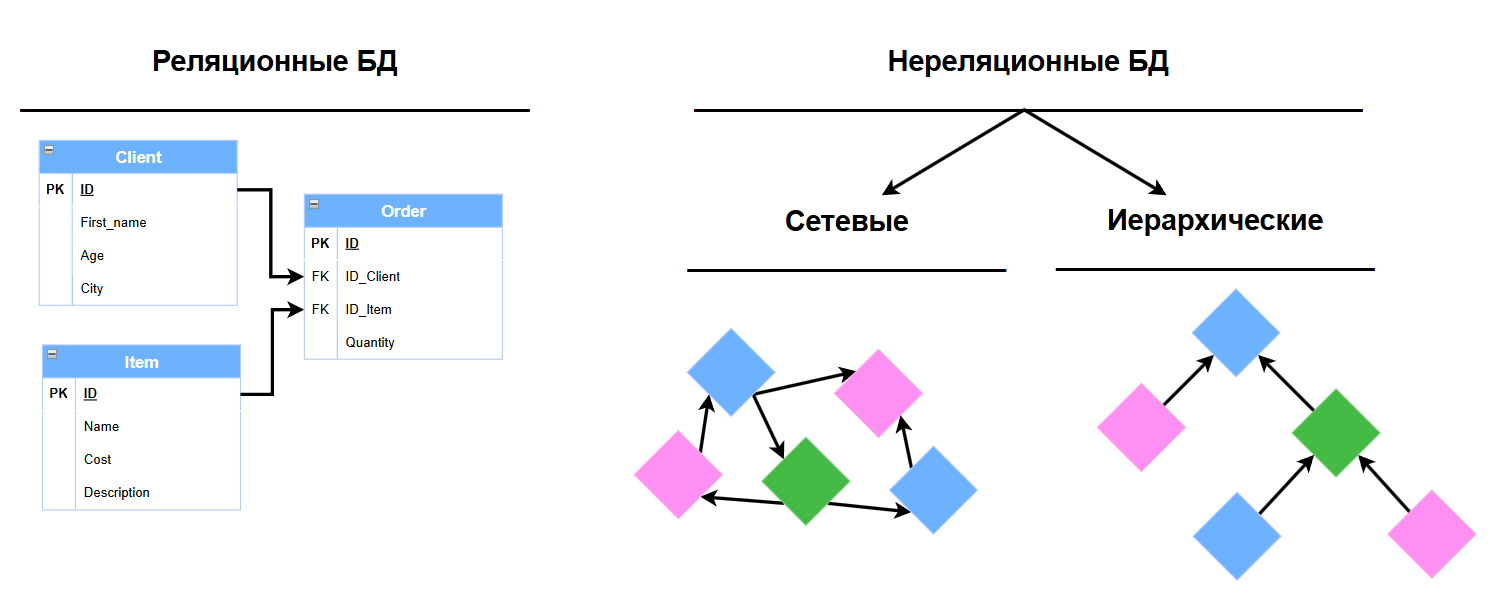
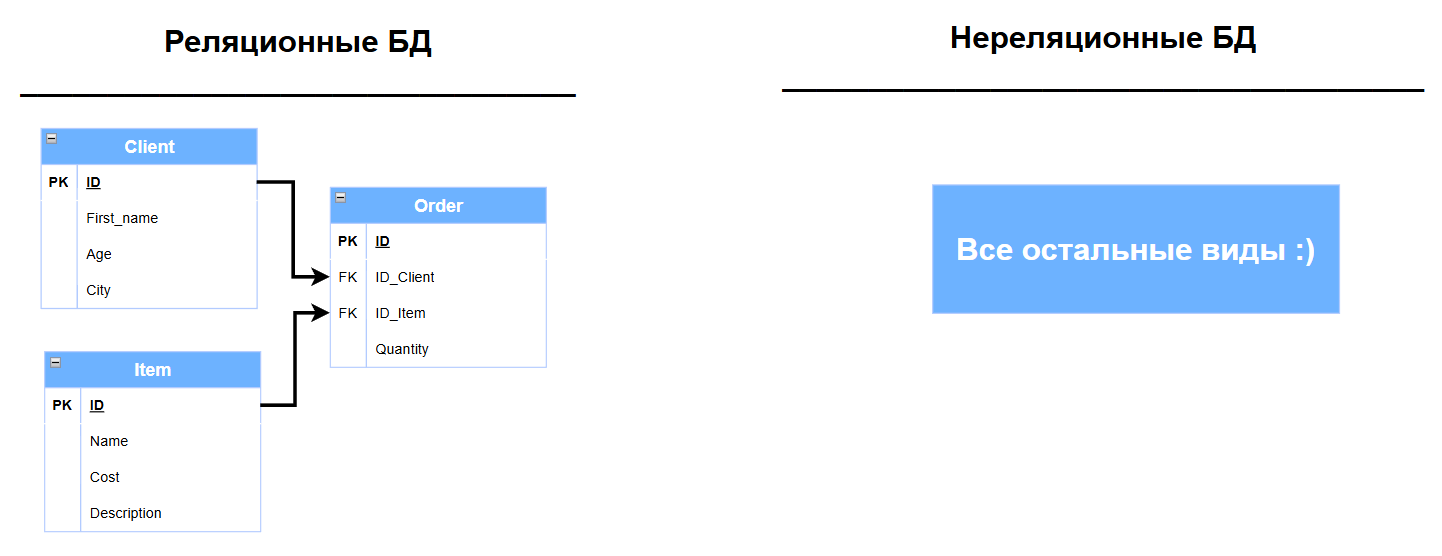
modified:   README.md 	modified:   pict3.png

diff --git a/README.md b/README.md
@@ -42,95 +42,35 @@ P.S. *Я понимаю, что я только начинаю свой путь
 + Реляционные
 + Нереляционные 
 
-Если кратко то Реляционная модель основанна на представление данных в виде таблиц, а нереляционная это все остальные виды. Краткое перечесление видов:
-
-1. Реляционные базы данных
-   - PostgreSQL
-   - MySQL
-   - Oracle Database
-   - Microsoft SQL Server
-   - IBM Db2
-   - SQLite
-<br>
-
-п
-
-<br>
-
-2. Нереляционные базы данных (NoSQL)
-   - Документные
-     - MongoDB
-     - Couchbase
-     - Amazon DocumentDB
-     - Firebase Firestore
-   - Колоночные (Column-family)
-     - Apache Cassandra
-     - Apache HBase
-     - Google BigTable
-     - ClickHouse
-   - Графовые
-     - Neo4j
-     - Amazon Neptune
-     - ArangoDB
-     - JanusGraph
-   - Ключ-значение
-     - Redis
-     - Amazon DynamoDB
-     - etcd
-     - Riak
-<br>
-
-п
-
-<br>
-
-3. Иерархические базы данных
-   - IBM IMS (Information Management System)
-   - Windows Registry
-   - XML-базы данных
-   - LDAP-серверы
-<br>
-
-п
-
-<br>
-
-4. Сетевые базы данных
-   - CA IDMS (Computer Associates IDMS)
-   - Oracle CODASYL DBMS
-   - Raima Database Manager
-   - TurboIMAGE
-<br>
-
-п
-
-<br>
-
-5. Объектно-ориентированные базы данных
-   - ObjectStore
-   - Versant Object Database
-   - db4o
-   - InterSystems Caché
-<br>
-
-п
-
-<br>
-
-6. Многомодельные базы данных (поддерживают несколько моделей)
-   - ArangoDB (документная, графовая, ключ-значение)
-   - Microsoft Azure Cosmos DB (документная, графовая, ключ-значение, колоночная)
-   - OrientDB (документная, графовая, объектная)
-   - Couchbase (документная, ключ-значение)
-<br>
-
-п
-
-<br>
-
-Скорее всего вы сильно испугались увидев такое большой список, но реальность немного спокойнее и реальных их всего несколько видов.
+Если кратко то Реляционная модель основанна на представление данных в виде таблиц, а нереляционная это все остальные виды.
 
 ![ВидыБД](pict3.png)
+
+А если всё же вдоваться в подробности этиъ видов огромное количество, в частности ниже я привёл таблицу с перечеслением видо БД, их описаниеми и представителячми. 
+
+### Типы баз данных: классификация и представители
+
+| Вид | Описание | Представители |
+|-----|----------|---------------|
+| **Реляционные (SQL)** | Таблицы со строками и столбцами, связанные через ключи *(Используют язык SQL)* | <ul><li>PostgreSQL</li><li>MySQL</li><li>Oracle Database</li><li>Microsoft SQL Server</li><li>IBM Db2</li><li>SQLite</li><li>MariaDB</li><li>Amazon Aurora</li></ul> |
+| **Документные (NoSQL)** | Хранение данных в формате документов (JSON/BSON) с гибкой схемой | <ul><li>MongoDB</li><li>Couchbase</li><li>Amazon DocumentDB</li><li>Firebase Firestore</li><li>RavenDB</li><li>Azure Cosmos DB (Document API)</li></ul> |
+| **Колоночные (Column-family)** | Хранение данных по колонкам, а не по строкам, для аналитических запросов | <ul><li>Apache Cassandra</li><li>Apache HBase</li><li>Google BigTable</li><li>ClickHouse</li><li>ScyllaDB</li><li>Amazon Keyspaces</li></ul> |
+| **Графовые** | Узлы (сущности) и ребра (связи) для работы с взаимосвязанными данными | <ul><li>Neo4j</li><li>Amazon Neptune</li><li>ArangoDB</li><li>JanusGraph</li><li>TigerGraph</li><li>OrientDB</li></ul> |
+| **Ключ-значение (Key-Value)** | Простая структура "ключ → значение" для быстрого доступа | <ul><li>Redis</li><li>Amazon DynamoDB</li><li>etcd</li><li>Riak</li><li>Berkeley DB</li><li>Memcached</li></ul> |
+| **Иерархические** | Древовидная структура данных с родительско-дочерними отношениями | <ul><li>IBM IMS</li><li>Windows Registry</li><li>XML-базы данных</li><li>LDAP-серверы</li><li>eXist-db</li><li>BaseX</li></ul> |
+| **Сетевые** | Расширение иерархической модели с поддержкой нескольких родителей | <ul><li>CA IDMS</li><li>Oracle CODASYL DBMS</li><li>Raima Database Manager</li><li>TurboIMAGE</li><li>Univac DMS-1100</li></ul> |
+| **Объектно-ориентированные** | Хранение объектов с методами, классами и наследованием | <ul><li>ObjectStore</li><li>Versant Object Database</li><li>db4o</li><li>InterSystems Caché</li><li>GemStone/S</li><li>Objectivity/DB</li></ul> |
+| **Многомодельные** | Поддержка нескольких моделей данных в одной системе | <ul><li>ArangoDB</li><li>Microsoft Azure Cosmos DB</li><li>OrientDB</li><li>MarkLogic</li><li>Couchbase</li><li>DataStax Enterprise</li></ul> |
+| **Временные/Time-Series** | Оптимизированы для хранения временных рядов данных | <ul><li>InfluxDB</li><li>TimescaleDB</li><li>Prometheus</li><li>OpenTSDB</li><li>QuestDB</li><li>TDengine</li></ul> |
+| **Поисковые/Search Engine** | Специализированные для полнотекстового поиска | <ul><li>Elasticsearch</li><li>Apache Solr</li><li>Algolia</li><li>MeiliSearch</li><li>Typesense</li><li>OpenSearch</li></ul> |
+| **Векторные** | Для хранения векторных эмбеддингов и семантического поиска | <ul><li>Pinecone</li><li>Weaviate</li><li>Qdrant</li><li>Milvus</li><li>Chroma</li><li>pgvector (расширение PostgreSQL)</li></ul> |
+
+<br>
+
+Скорее всего вы сильно испугались увидев такую большую таблицу, но для начала работы мы будем использовать реляционные БД, в частности PostgreSQL.
+Возможно вы сечйчас спросите почему именно PostgreSQL, а не другие?
+
+*Ответ просто как 3 рубля, я на работе и на учёбе постоянно работаю с SQL Server и немного уже от него устал, и хочу попробовать что-то новенькое* :)
 
 <br>
 
